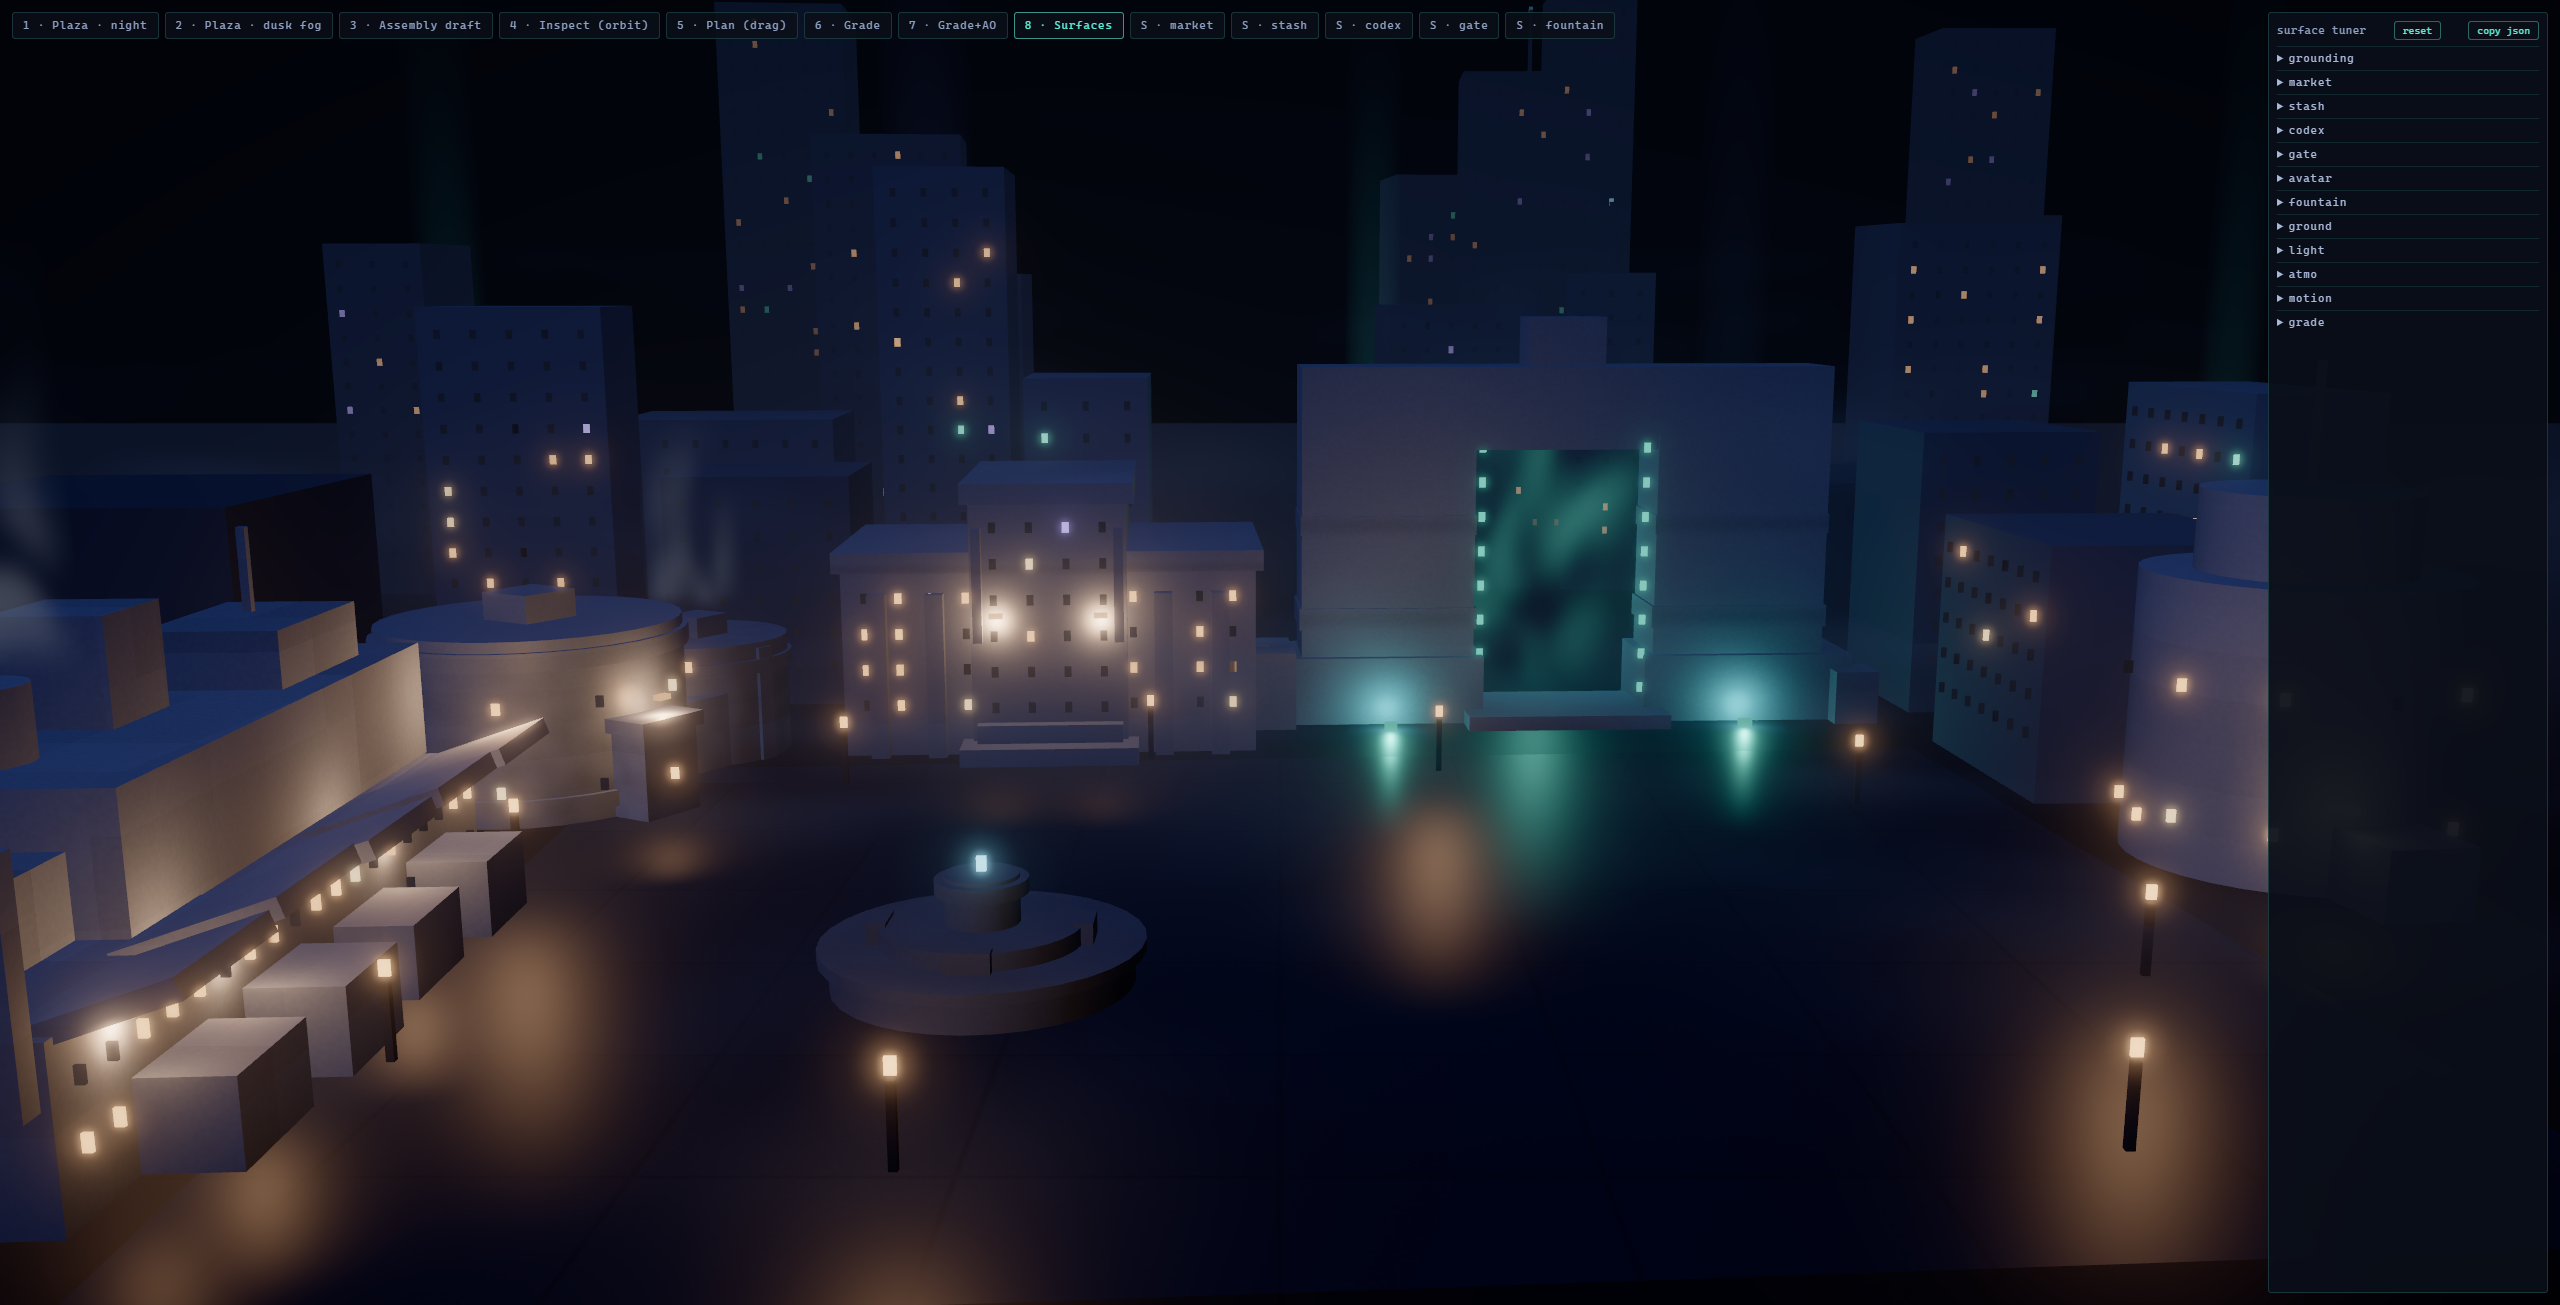
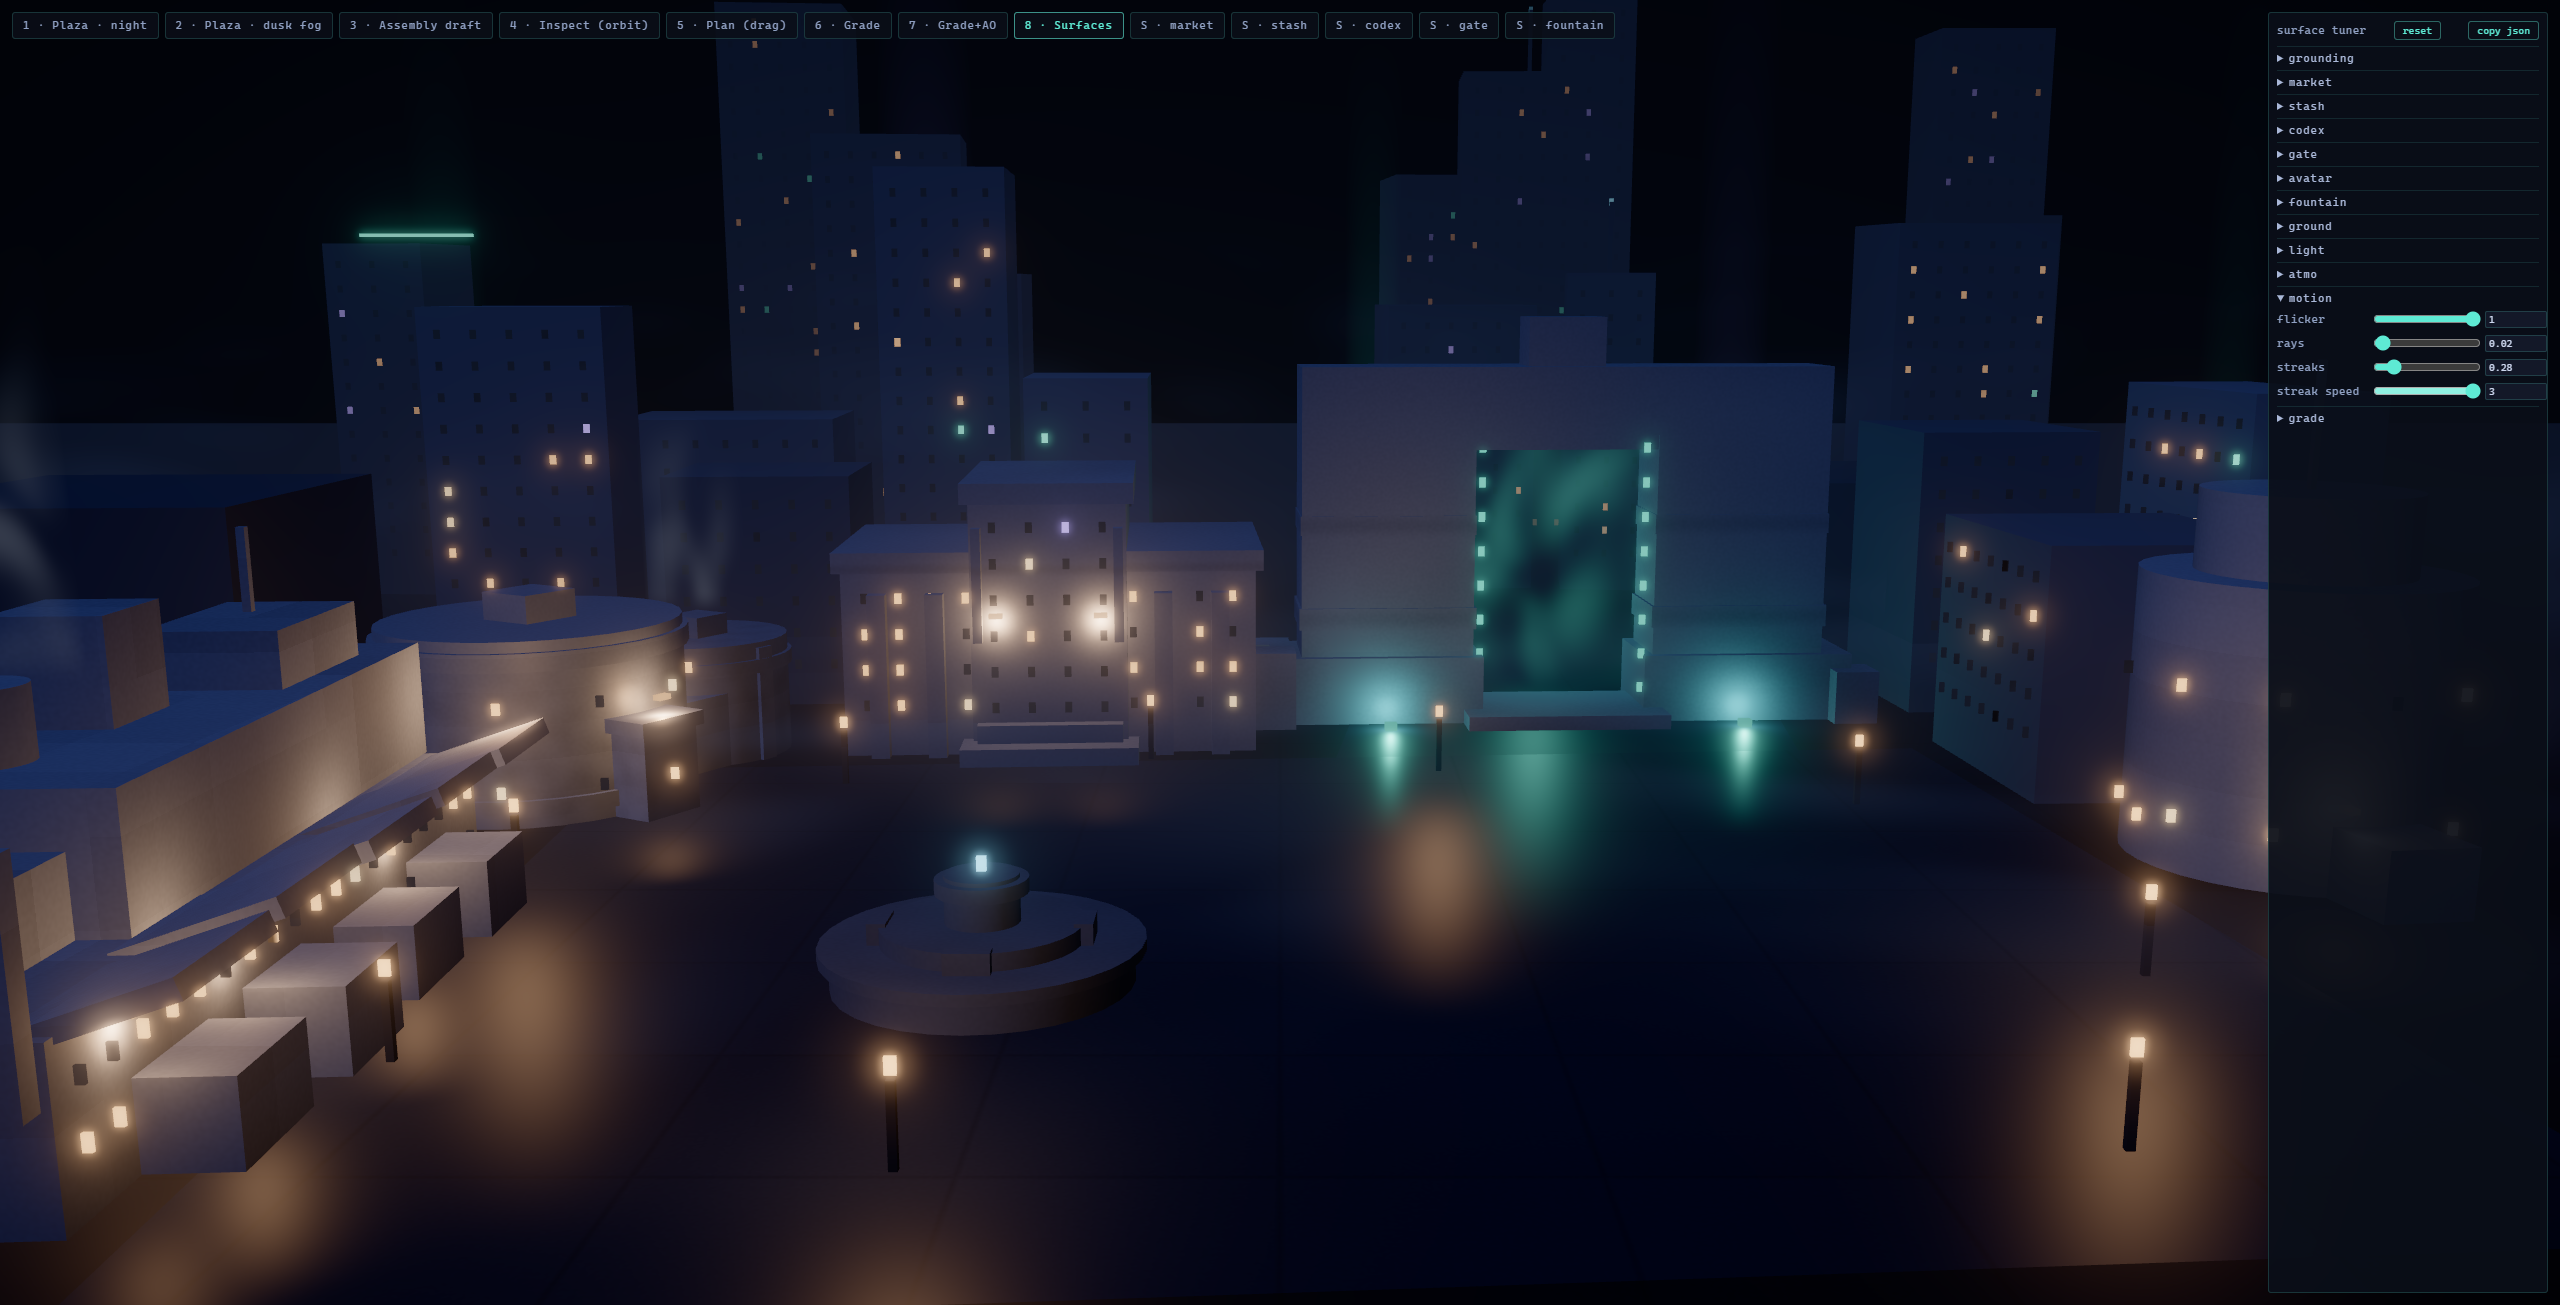
spike: exempt skybox streaks and rays from fog, add streak-speed knob

diff --git a/apps/web/lookdev/lookdev.ts b/apps/web/lookdev/lookdev.ts
@@ -1359,6 +1359,19 @@ const motionKnobs = makeKnobGroup('motion', {
   streaks: [1, 0, 2],
 });
 
+const motionState = { streakSpeed: 1 };
+
+registerKnob(
+  'motion.streakSpeed',
+  1,
+  0.2,
+  3,
+  (value) => {
+    motionState.streakSpeed = value;
+  },
+  0.05,
+);
+
 /** Per-frame updaters for the current scene's animated meshes; rebuilt with each view select. */
 const sceneAnimations: Array<(elapsed: number) => void> = [];
 
@@ -1794,9 +1807,11 @@ function buildScene(config: ProbeConfig, useParts: boolean, grounding = false, s
   if (surfaces) {
     // distant light shafts pulsing out of phase among the far towers — broad ambience, not a siren
     for (const ray of RAY_SPECS) {
+      // fog would swallow the shaft color at this distance — these are sky, not scenery
       const rayMaterial = new MeshBasicNodeMaterial({
         blending: AdditiveBlending,
         depthWrite: false,
+        fog: false,
         side: DoubleSide,
         transparent: true,
       });
@@ -1816,7 +1831,8 @@ function buildScene(config: ProbeConfig, useParts: boolean, grounding = false, s
     // the skybox layer: bright streaks crossing the far skyline — distant shooting stars
     const streakGeometry = new BoxGeometry(3.4, 0.16, 0.16);
     const streakMaterials = ['#a78bfa', '#5eead4', '#e5c79c', '#dbeafe'].map((streakColor) => {
-      const material = new MeshBasicNodeMaterial();
+      // beyond the fog far distance every fogged material flattens to fog color — exempt these
+      const material = new MeshBasicNodeMaterial({ fog: false });
 
       material.colorNode = color(streakColor).mul(3.2).mul(motionKnobs.streaks);
 
@@ -1845,7 +1861,7 @@ function buildScene(config: ProbeConfig, useParts: boolean, grounding = false, s
       streak.visible = false;
       scene.add(streak);
       sceneAnimations.push((elapsed) => {
-        const phase = (elapsed + offset) % period;
+        const phase = (elapsed * motionState.streakSpeed + offset) % period;
         const progress = phase / travel;
         const crossing = progress < 1;
 
